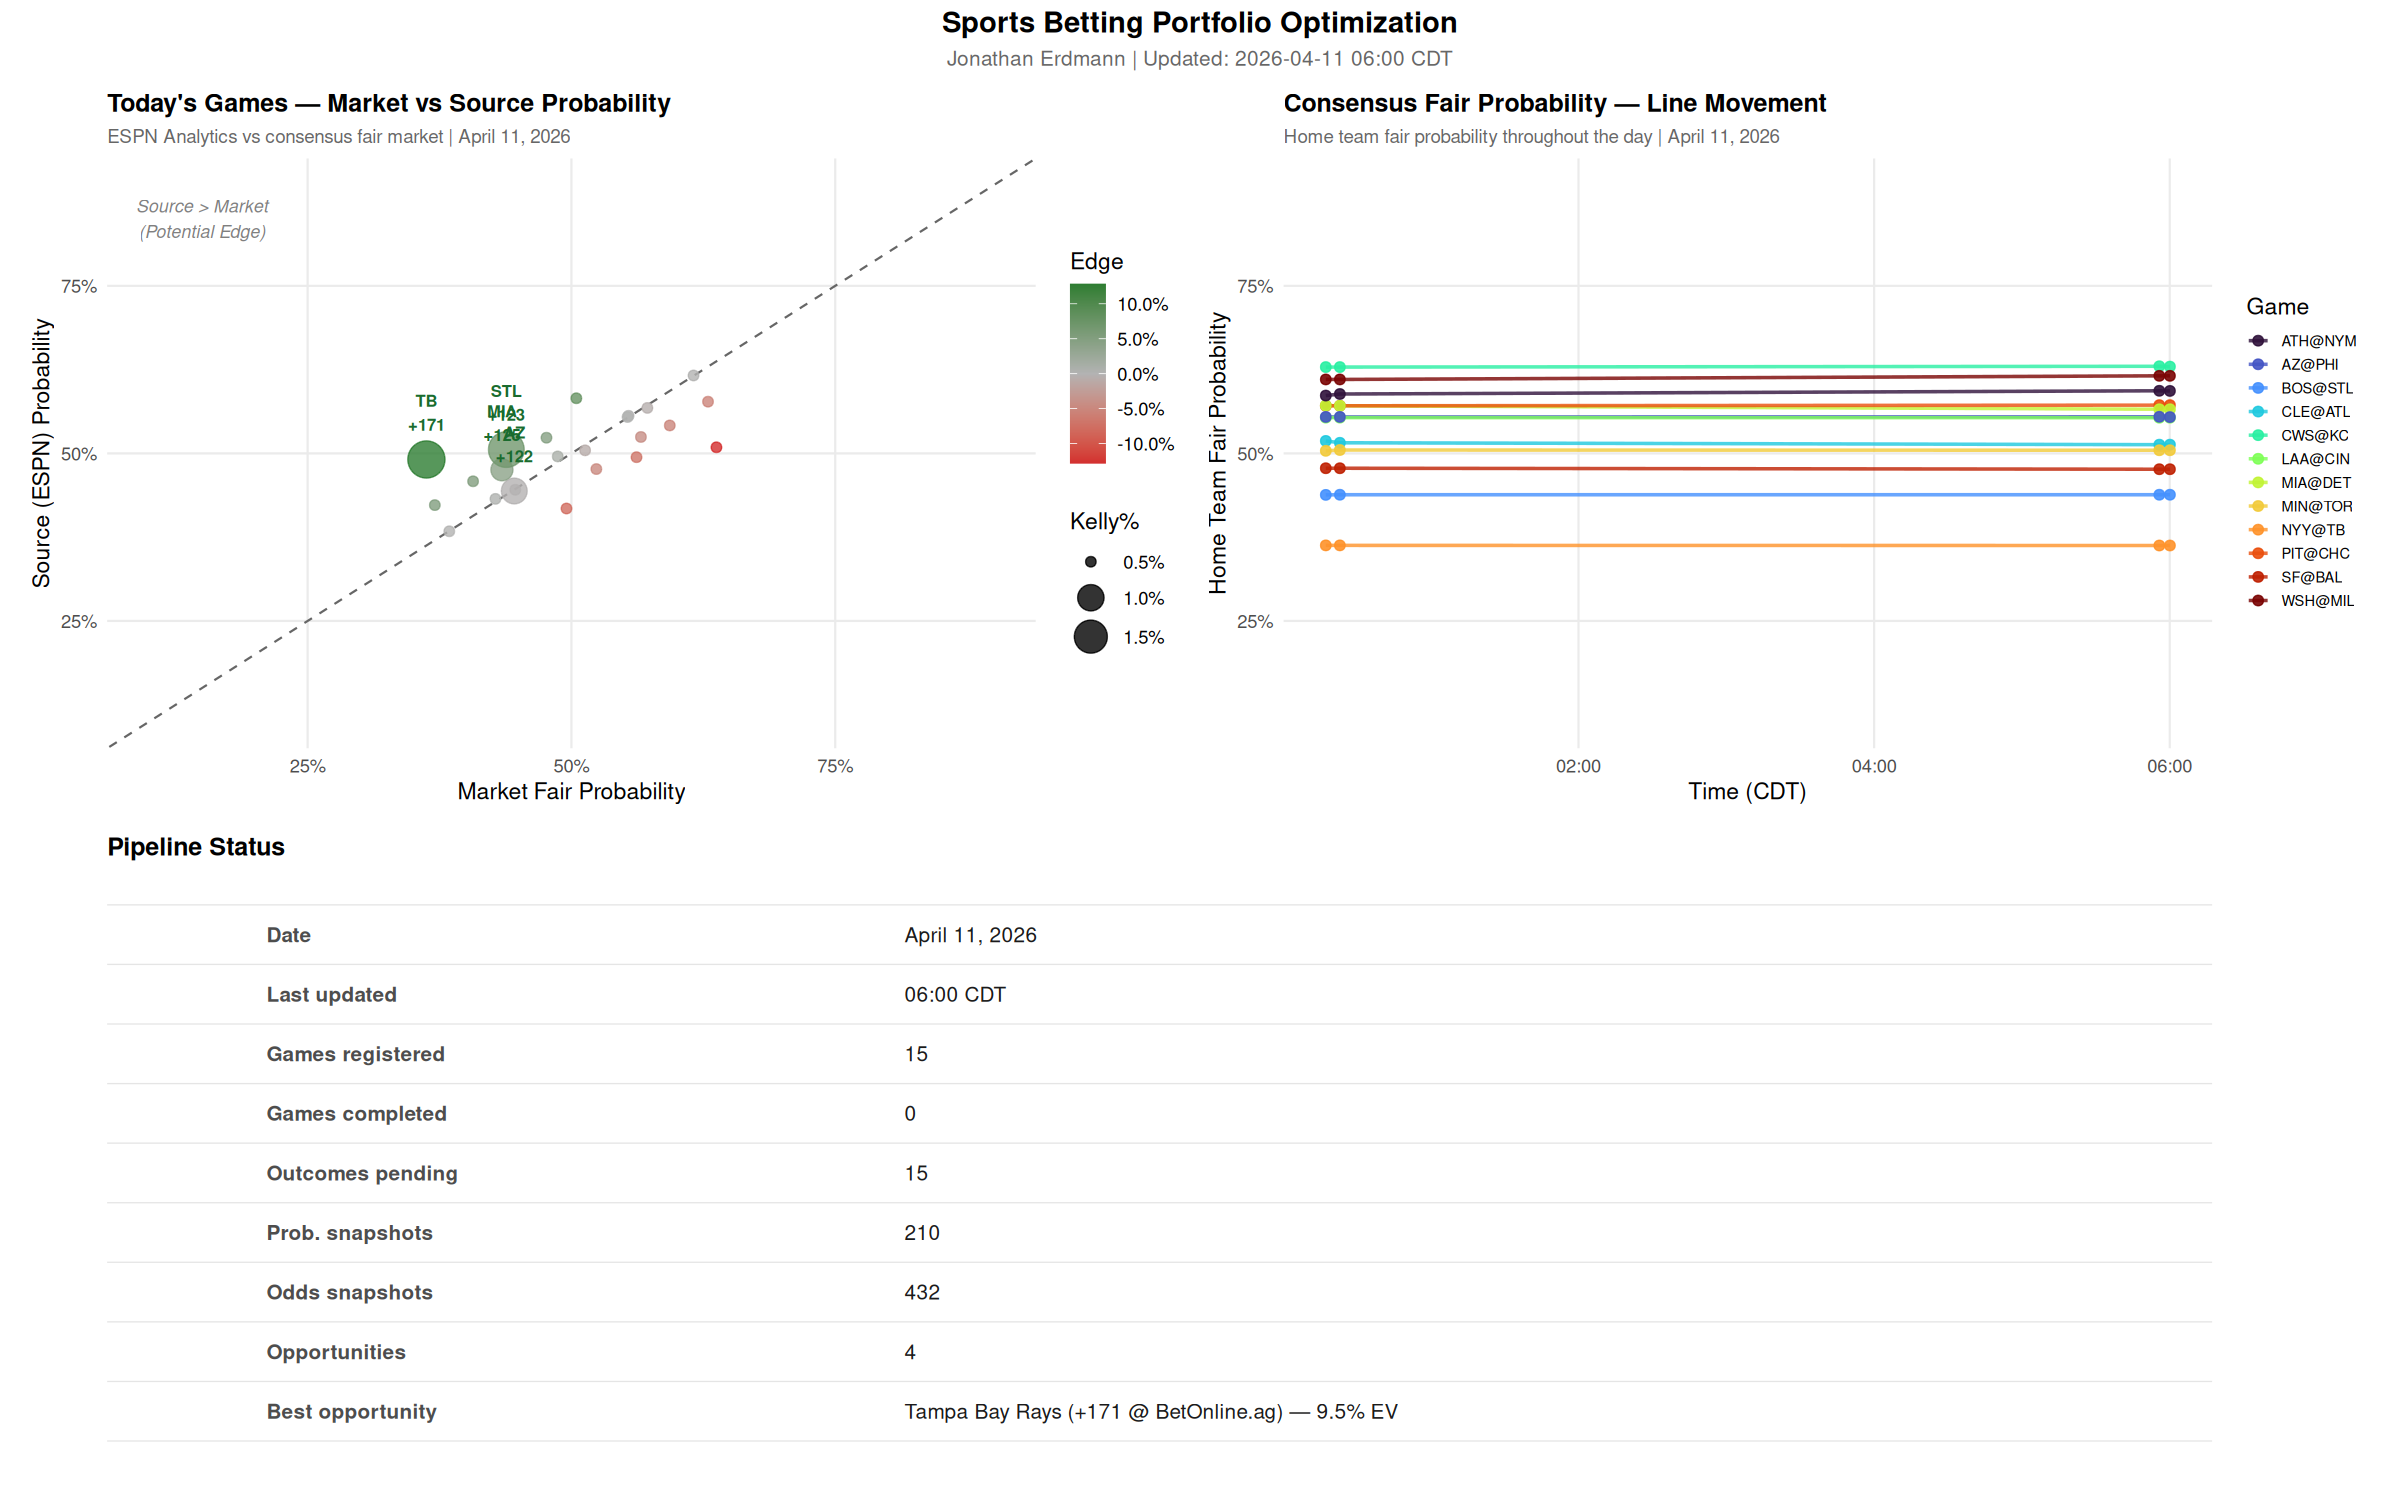
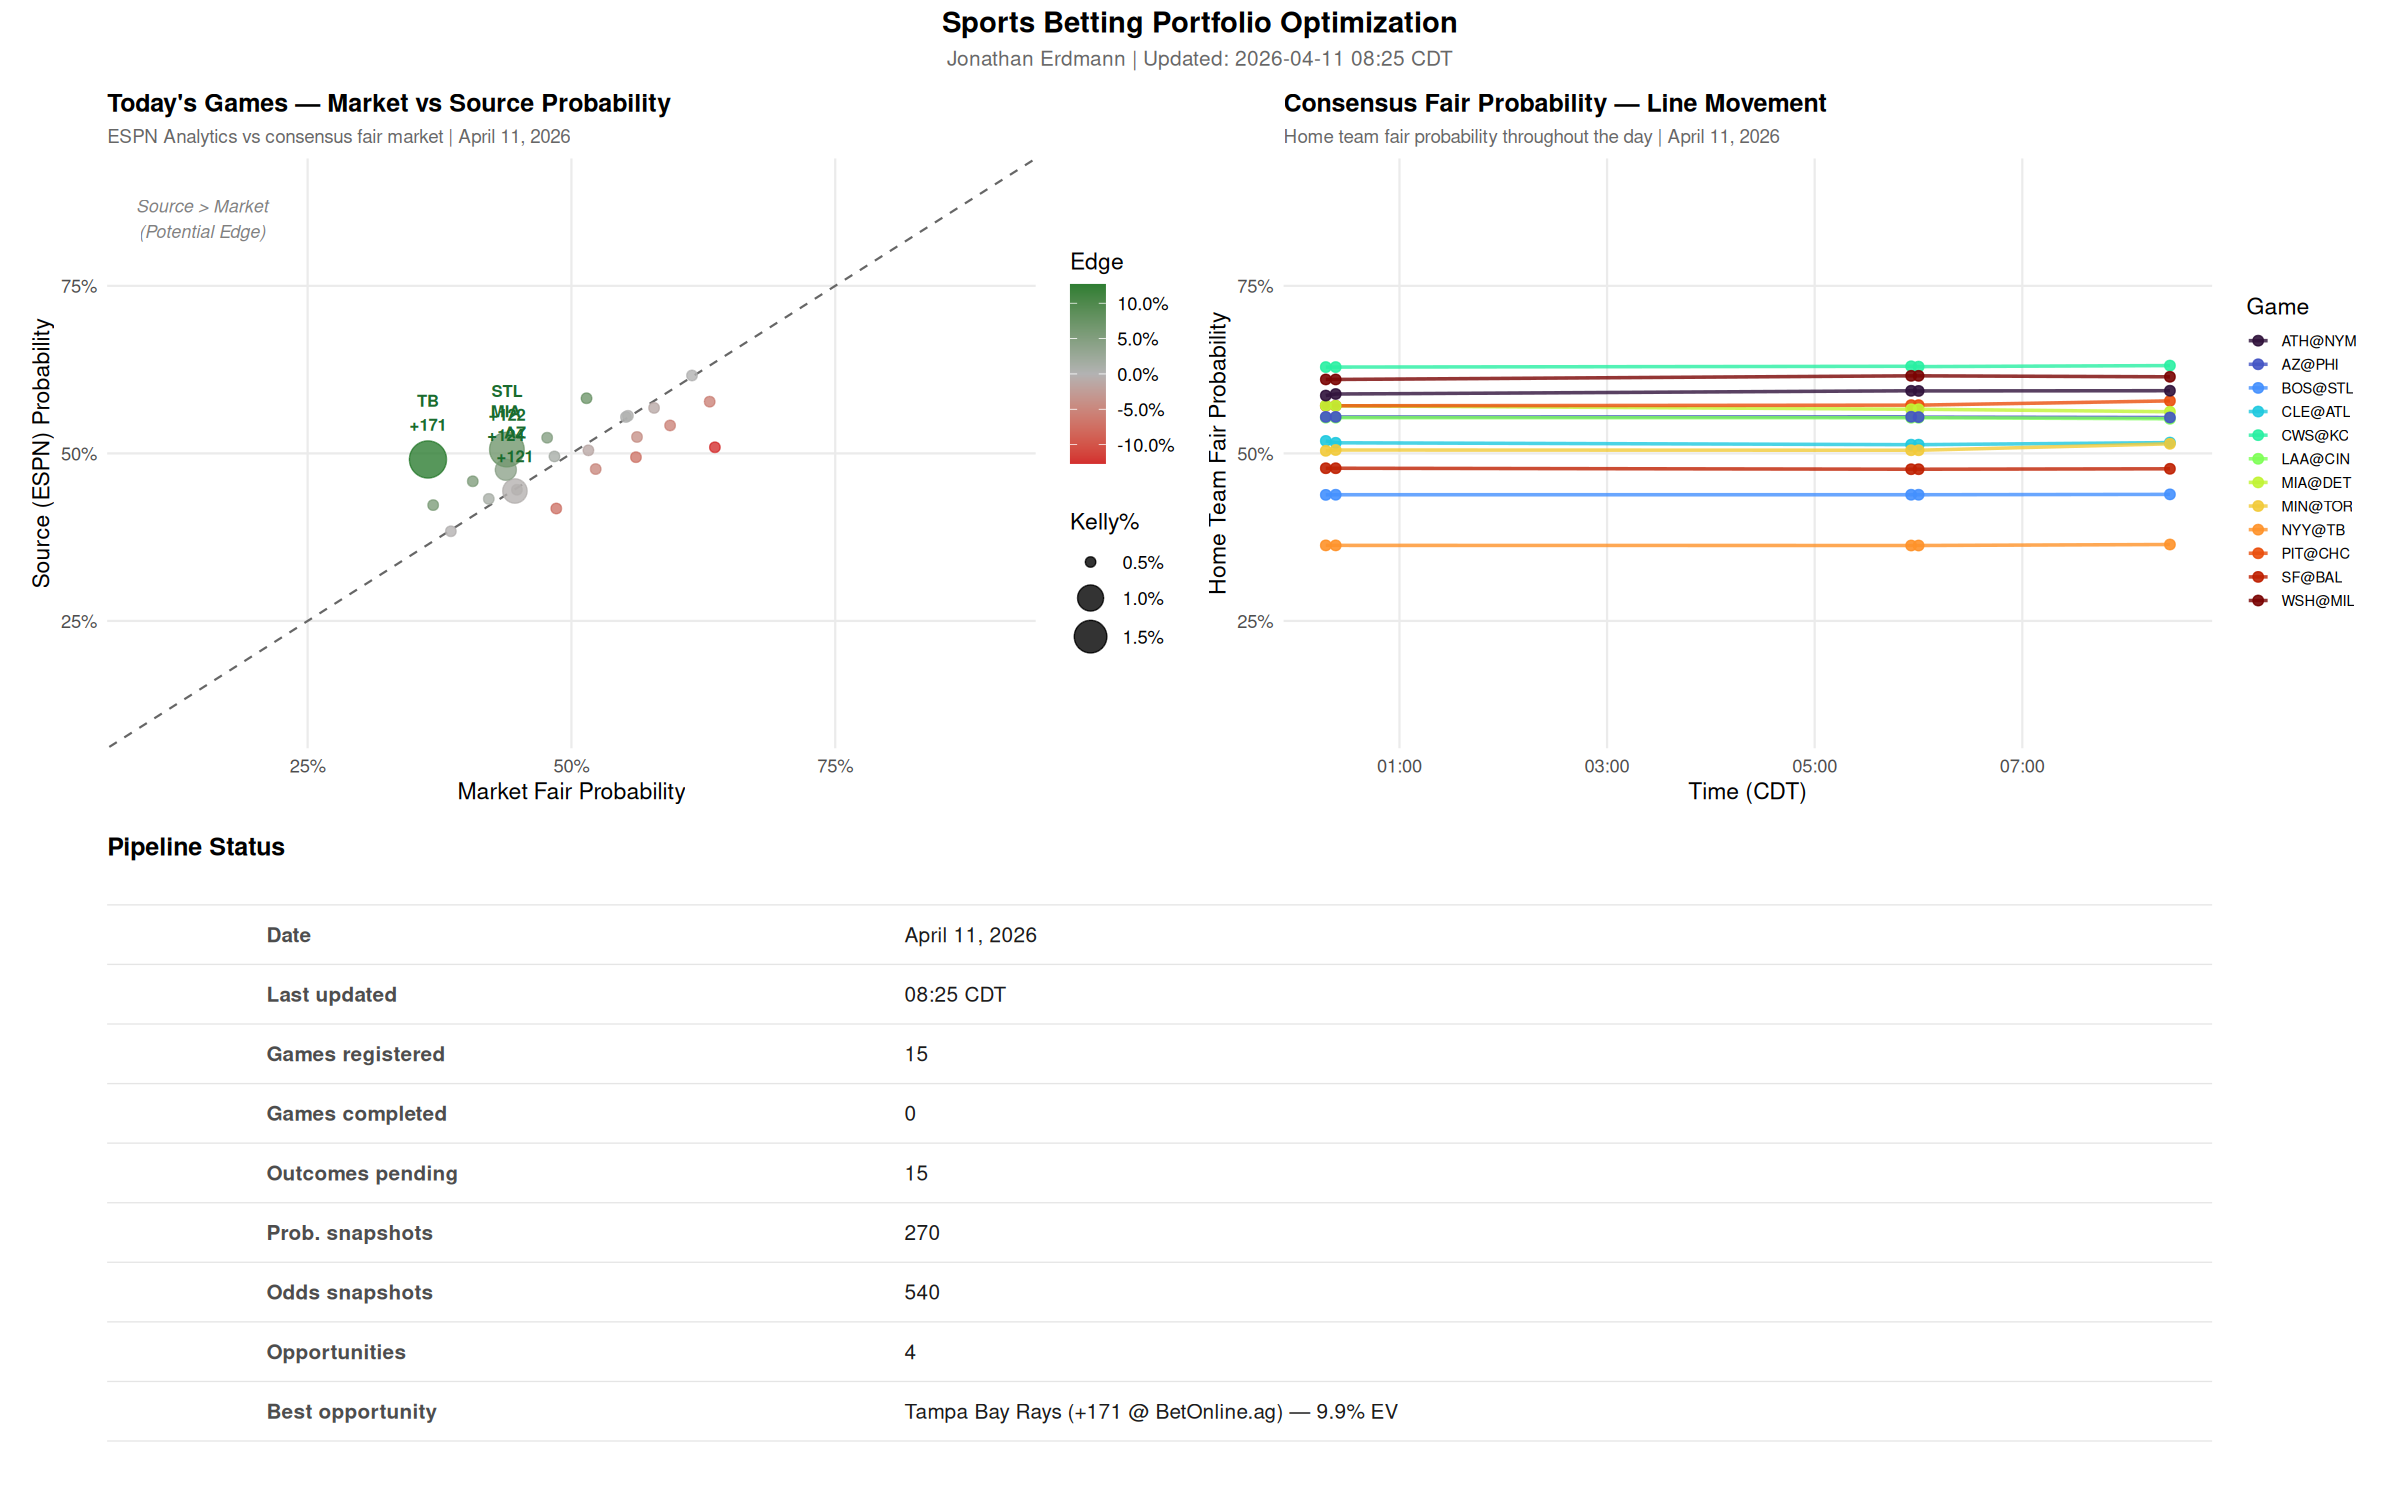
Update dashboard: 2026-04-11 08:25

diff --git a/projects/portfolio-optimization/dashboard.md b/projects/portfolio-optimization/dashboard.md
@@ -6,7 +6,7 @@ permalink: /projects/portfolio-optimization/dashboard/
 
 ## Daily Pipeline Dashboard
 
-**Last updated:** April 11, 2026 06:00 CDT
+**Last updated:** April 11, 2026 08:25 CDT
 
 ---
 
@@ -14,10 +14,10 @@ permalink: /projects/portfolio-optimization/dashboard/
 
 | Team | ML | Market% | Posterior% | EV% | Kelly% | Bet by | Book |
 |---|---|---|---|---|---|---|---|
-| Tampa Bay Rays | +171 | 36.3% | 40.4% | 9.5% | 1.40% | 15:10 CDT | BetOnline.ag |
-| St. Louis Cardinals | +123 | 43.8% | 47.6% | 6.1% | 1.25% | 16:15 CDT | LowVig.ag |
-| Arizona Diamondbacks | +122 | 44.5% | 46.1% | 2.2% | 0.46% | 10:05 CDT | BetOnline.ag |
-| Miami Marlins | +125 | 43.4% | 45.0% | 1.3% | 0.26% | 10:10 CDT | LowVig.ag |
+| Tampa Bay Rays | +171 | 36.4% | 40.6% | 9.9% | 1.45% | 15:10 CDT | MyBookie.ag |
+| St. Louis Cardinals | +122 | 43.9% | 47.7% | 5.8% | 1.19% | 16:15 CDT | LowVig.ag |
+| Arizona Diamondbacks | +121 | 44.6% | 46.1% | 1.9% | 0.40% | 10:05 CDT | BetOnline.ag |
+| Miami Marlins | +124 | 43.8% | 45.2% | 1.1% | 0.23% | 10:10 CDT | FanDuel |
 
 ---
 
